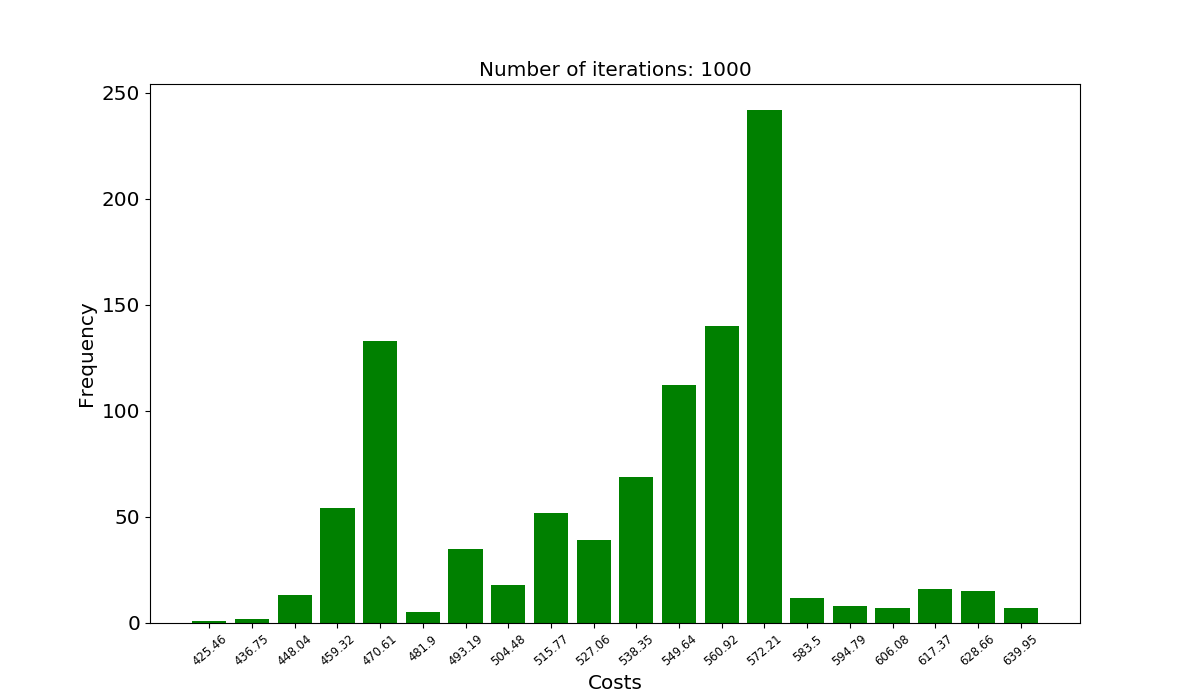
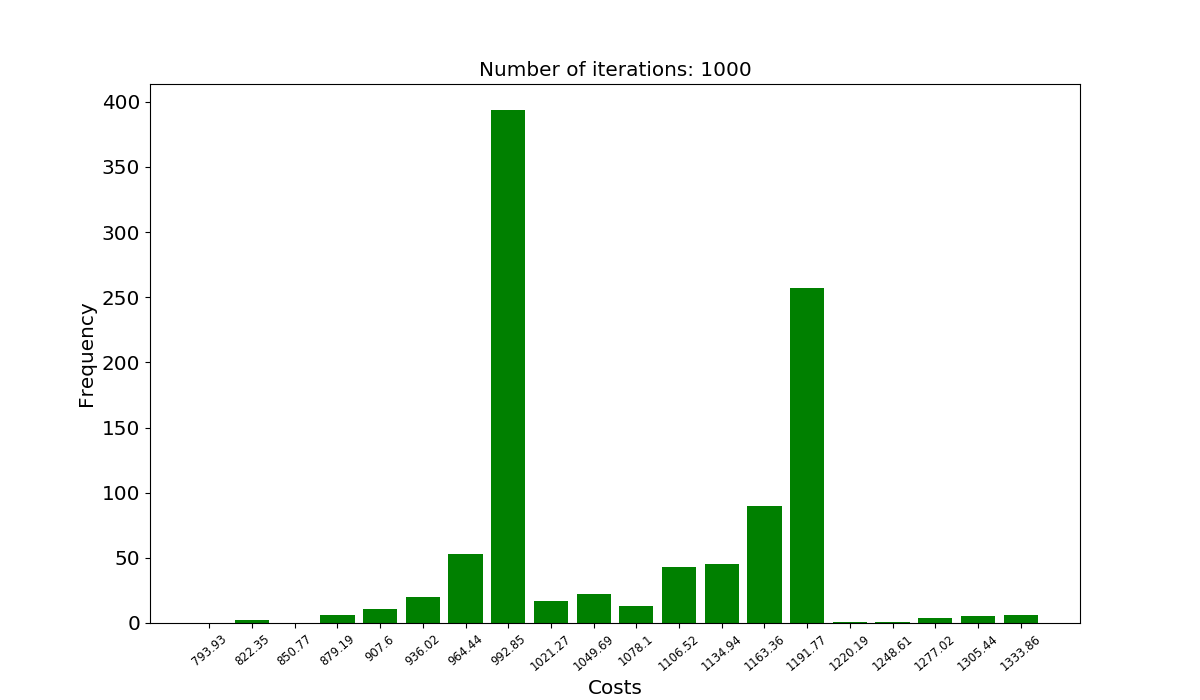
csv updates voor mapcoloring

diff --git a/main/sender_placer.py b/main/sender_placer.py
@@ -18,7 +18,7 @@ import initialiser as init
 import state_space as state
 
 # define global variables
-INPUT_CSV = 'china_borders.csv'
+INPUT_CSV = 'russia_borders.csv'
 PROVINCES = init.province_initialiser(INPUT_CSV)
 SENDERS = init.sender_initialiser()
 
@@ -39,7 +39,7 @@ if __name__ == "__main__":
     # uses the wellsh powel function to test different variations of pool sorts
 
     # welsh_powell_variation(province_pools, PROVINCES, SENDERS)
-    depth_first(PROVINCES, SENDERS, 1000)
+    depth_first(PROVINCES, SENDERS, 100000)
 
 
 
